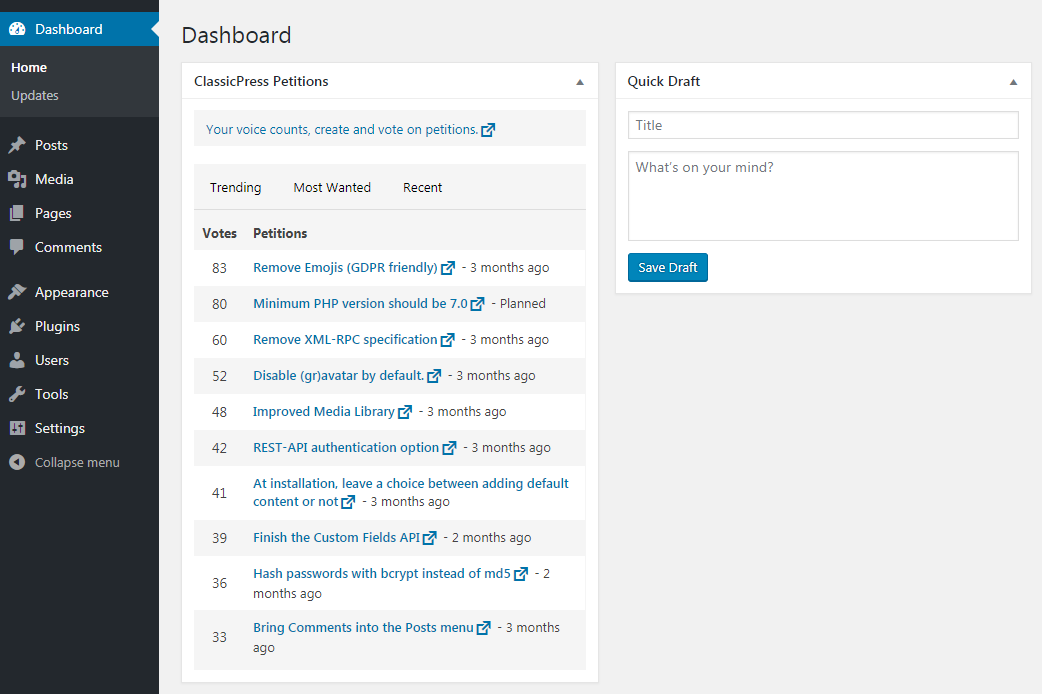
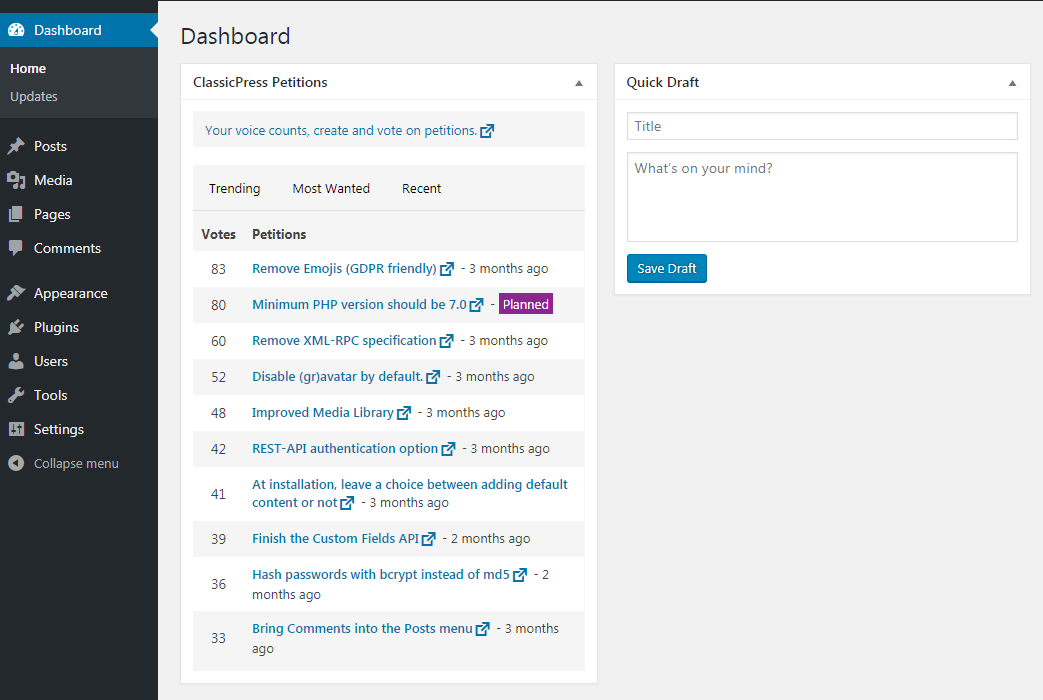
Added status color coding + new screenshot

diff --git a/assets/css/plugin.css b/assets/css/plugin.css
@@ -81,3 +81,17 @@ td {
 td:nth-child(1) {
   text-align: center;
 }
+
+span.planned {
+  display: inline;
+  background: #89288f; /* 61ce70 is the classic green but a pain to read */
+  color: #fff;
+  padding: 2px 4px;
+}
+
+span.started {
+  display: inline;
+  background: #1da21d;
+  color: #fff;
+  padding: 2px 4px;
+}

diff --git a/ClassicPressPetitionsDashboard.php b/ClassicPressPetitionsDashboard.php
@@ -97,8 +97,10 @@ if ( ! class_exists( 'ClassicPressPetitionsDashboard' ) ) {
 			//Tab Navigation head
 			echo '<div class="tab">';
 
+			/** 
+			 * TODO: Get the first button to colorize like tab. Make tab navigation more obvious.
+			 */
 			$first = 0;
-
 			foreach ( $list as $list_item ) { 
 
 				if( $first++ == 0 ) {
@@ -122,8 +124,8 @@ if ( ! class_exists( 'ClassicPressPetitionsDashboard' ) ) {
 					<col width="90%">
 					<thead>
 						<tr>
-							<td>Votes</td>
-							<td>Petitions</td>
+							<td>' . esc_attr__( 'Votes', $this->text_domain ) . '</td>
+							<td>' . esc_attr__( 'Petitions', $this->text_domain ) . '</td>
 						</tr>
 					</thead>
 				';
@@ -135,15 +137,20 @@ if ( ! class_exists( 'ClassicPressPetitionsDashboard' ) ) {
 							<td class="votes-count"><?php echo esc_attr( $value['votesCount'] ); ?></td>
 			
 							<td class="petition">
-								<a target="_blank" href="<?php echo esc_url( $value['link'] ) ?>"><strong><?php echo esc_attr__( $value['title'], $this->text_domain )?><span class="screen-reader-text"><?php echo esc_attr__( '(opens in a new window)', $this->text_domain ); ?></span><span aria-hidden="true" class="dashicons dashicons-external"></span></strong>
-									</a><?php
+								<a target="_blank" href="<?php echo esc_url( $value['link'] ) ?>"><strong><?php echo esc_attr__( $value['title'], $this->text_domain )?><span class="screen-reader-text"><?php echo esc_attr__( '(opens in a new window)', $this->text_domain ); ?></span><span aria-hidden="true" class="dashicons dashicons-external"></span></strong></a>
+								<?php
 									esc_attr__( 'by', $this->text_domain ) . ' ' . ucwords(  esc_attr( $value['createdBy'] ) );
 				
 									if ( $value['status'] == "open" ){
 										echo esc_attr__( ' - ', $this->text_domain ) . ' ' . human_time_diff( strtotime( $value['createdAt'] ), current_time('timestamp') ) . ' ' . esc_attr__( 'ago', $this->text_domain );
-									} else{
-										echo esc_attr_e( ' - ', $this->text_domain ) . esc_attr_e( ucfirst( $value['status'] ), $this->text_domain );
-									} ?>
+									} 
+									elseif ( $value['status'] == "planned" ){
+										echo ' - ' . '<span class="planned">' . esc_attr__( ucfirst( $value['status'] ), $this->text_domain ) . '</span>';
+									} 
+									else{
+										echo ' - ' . '<span class="started">' . esc_attr__( ucfirst( $value['status'] ), $this->text_domain ) . '</span>';
+									}
+									?>
 							</td>
 						</tr>
 					<?php

diff --git a/README.md b/README.md
@@ -6,28 +6,36 @@
 ## Description
 Find the latest petitions for ClassicPress growth.
 
-## Screeshots
-![Screen shot of Top 10 ClassicPress Petitions in Dashboard with tab navigation](https://github.com/bahiirwa/ClassicPressPetitionsDashboard/blob/master/assets/images/Screenshot-1.png "Screen shot of Top 10 ClassicPress Petitions in Dashboard with tab navigation")
-
 ## Installation
 1. Upload the plugin to the `/wp-content/plugins/` directory ~~or install directly from the repository~~.
 1. Activate the plugin through the 'Plugins' menu in ClassicPress
+
+## Screeshots
+![Screen shot of Top 10 ClassicPress Petitions in Dashboard with tab navigation](https://github.com/bahiirwa/ClassicPressPetitionsDashboard/blob/master/assets/images/Screenshot-1.png "Screen shot of Top 10 ClassicPress Petitions in Dashboard with tab navigation")
 
 ## Frequently Asked Questions
 1. How can I contribute?
 * You can raise lots of issues here and also make some Pull Requests.
 
+## TODO
+1. Get the first button to colorize like tab. Make tab navigation more obvious. (Line 101)
+
 ## Changelog
 
-### Version 1.0.3 (27.11.2018)
+### Version 0.1.3 (27.11.2018)
+* New Tab Navigation for petitions
+* Refactored Code 
+* Proper Versioning
+
+### Version 0.1.3 (27.11.2018)
 * Proper Version Numbers
 * Added Screenshots.
 
-### Version 1.0.2 (22.11.2018)
+### Version 0.1.2 (22.11.2018)
 * Conditionally remove events dashboard widget
 * use `wp_remote_get()` instead of `file_get_contents()` to get API response. Ref #3
 
-### Version 1.0.1 (22.11.2018)
+### Version 0.1.1 (22.11.2018)
 * Used right API for most wanted features
 * Class Self tests
 * New variables to keep class code clean
@@ -35,5 +43,5 @@ Find the latest petitions for ClassicPress growth.
 * Internationalization added.
 * Styles the widget with default stylings in core
 
-### Version 1.0.0 (21.11.2018)
+### Version 0.1.0 (21.11.2018)
 * Initial Commit
